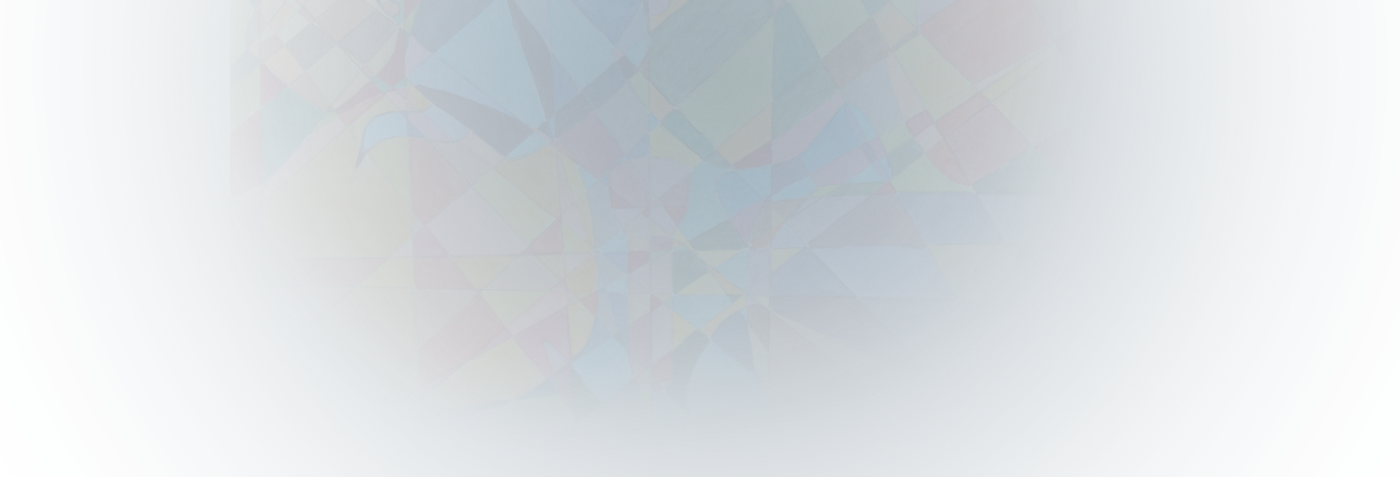
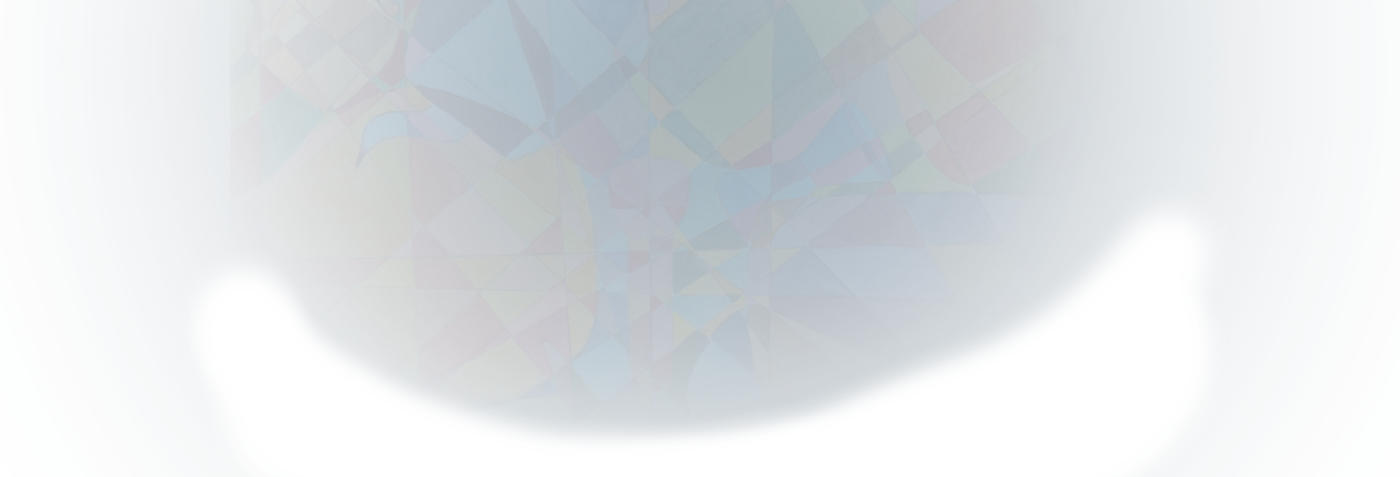
commit

Changed region(s): [[0.2457, 0.499, 0.8293, 1.0]]

diff --git a/Business_site/css/style.css b/Business_site/css/style.css
@@ -17,9 +17,13 @@ a {
 }
 
 .top_banner {
-  height: 472px;
+  min-height: 318px;
   position: relative;
   background-image: url(../img/top_bg_2.png);
+  padding: 100px 0 85px 0;
+  font-family: Harabara, Arial, sans-serif;
+  color: #fff;
+  font-size: 22px;
 }
 
 .top_overlay {
@@ -29,8 +33,11 @@ a {
   position: absolute;
   width: 100%;
   height: 100%;
+  top: 0;
+  z-index: -1;
 }
 
+/* HEADER */
 header {
   height: 114px;
   background-image: url(../img/top_mnu.png);
@@ -100,4 +107,40 @@ header {
   width: 100%;
   left: 0;
 }
+
+.top_banner h2 {
+  color: #f99e0f;
+  font-size: 48px;
+  text-shadow: rgba(0, 0, 0, .6) 1px 4px;
+}
+.top_banner ul {
+  margin-top: 30px;
+}
+
+.top_banner li {
+  background-image: url(../img/check.png);
+  background-repeat: no-repeat;
+  border: transparent 2px solid;
+  padding: 3px  3px 3px 35px;
+  background-position: 8px 7px;
+  cursor: default;
+  -webkit-transition: all.5s ease;
+  -moz-transition: all.5s ease;
+  -ms-transition: all.5s ease;
+  -o-transition: all.5s ease;
+  transition: all.5s ease;
+
+}
+
+.top_banner li:hover {
+  border: rgba(255, 255, 255, .3) 2px solid;
+}
+
+.header_photo {
+  position: absolute;
+  bottom:40px;
+  right: 50%;
+  margin-right: -450px;
+}
+
 

diff --git a/Business_site/index.html b/Business_site/index.html
@@ -10,10 +10,25 @@
 
 <body>
     <section class="top_banner">
+        <div class="container_12">
+            <div class="grid_6">
+                <h2>RELIABLE <br> SOFTWARE</h2>
+                <ul>
+                    <li>Your business afloat</li>
+                    <li>You ahead of your competitors</li>
+                    <li>Always under the protection of</li>
+                    <li>Your software is always in safe hands</li>
+                    <li>I could write something else, but do not</li>
+                </ul>
+            </div>
+            <div class="grid_6">
+                <div class="header_photo"><img src="img/peoples.png" alt="alt"></div>
+            </div>
+        </div>
         <div class="top_overlay"></div>
     </section>
     <header>
-        <div class="container_12">  
+        <div class="container_12">
             <div class="grid_3">
                 <a href="#" class="logo"><img src="img/logo.png" alt="alt"></a>
             </div>
@@ -30,7 +45,7 @@
         </div>
     </header>
     <footer>
-        
+
     </footer>
     <script src="libs/jquery-3.2.1.min.js" type="text/javascript">
 
